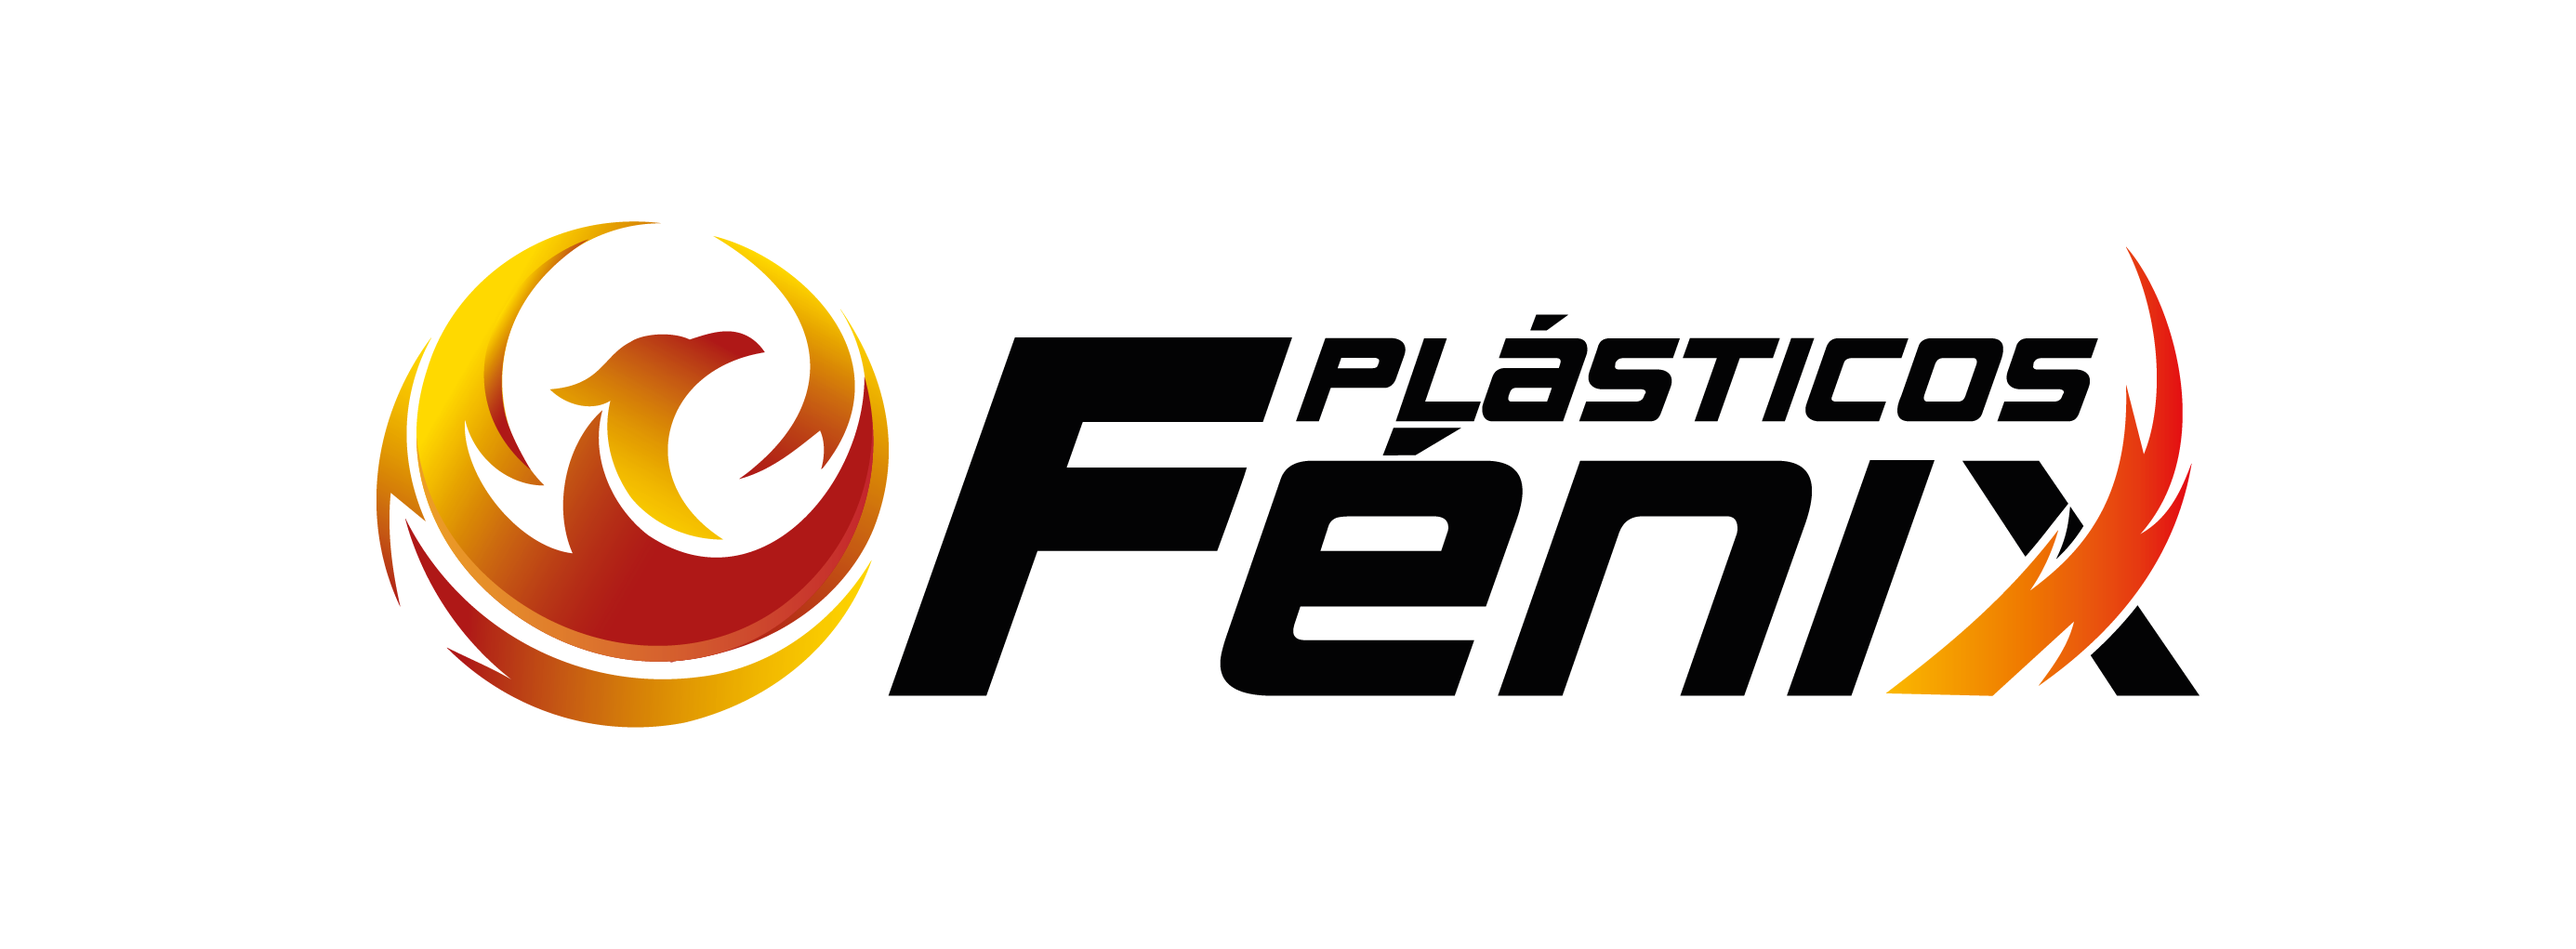
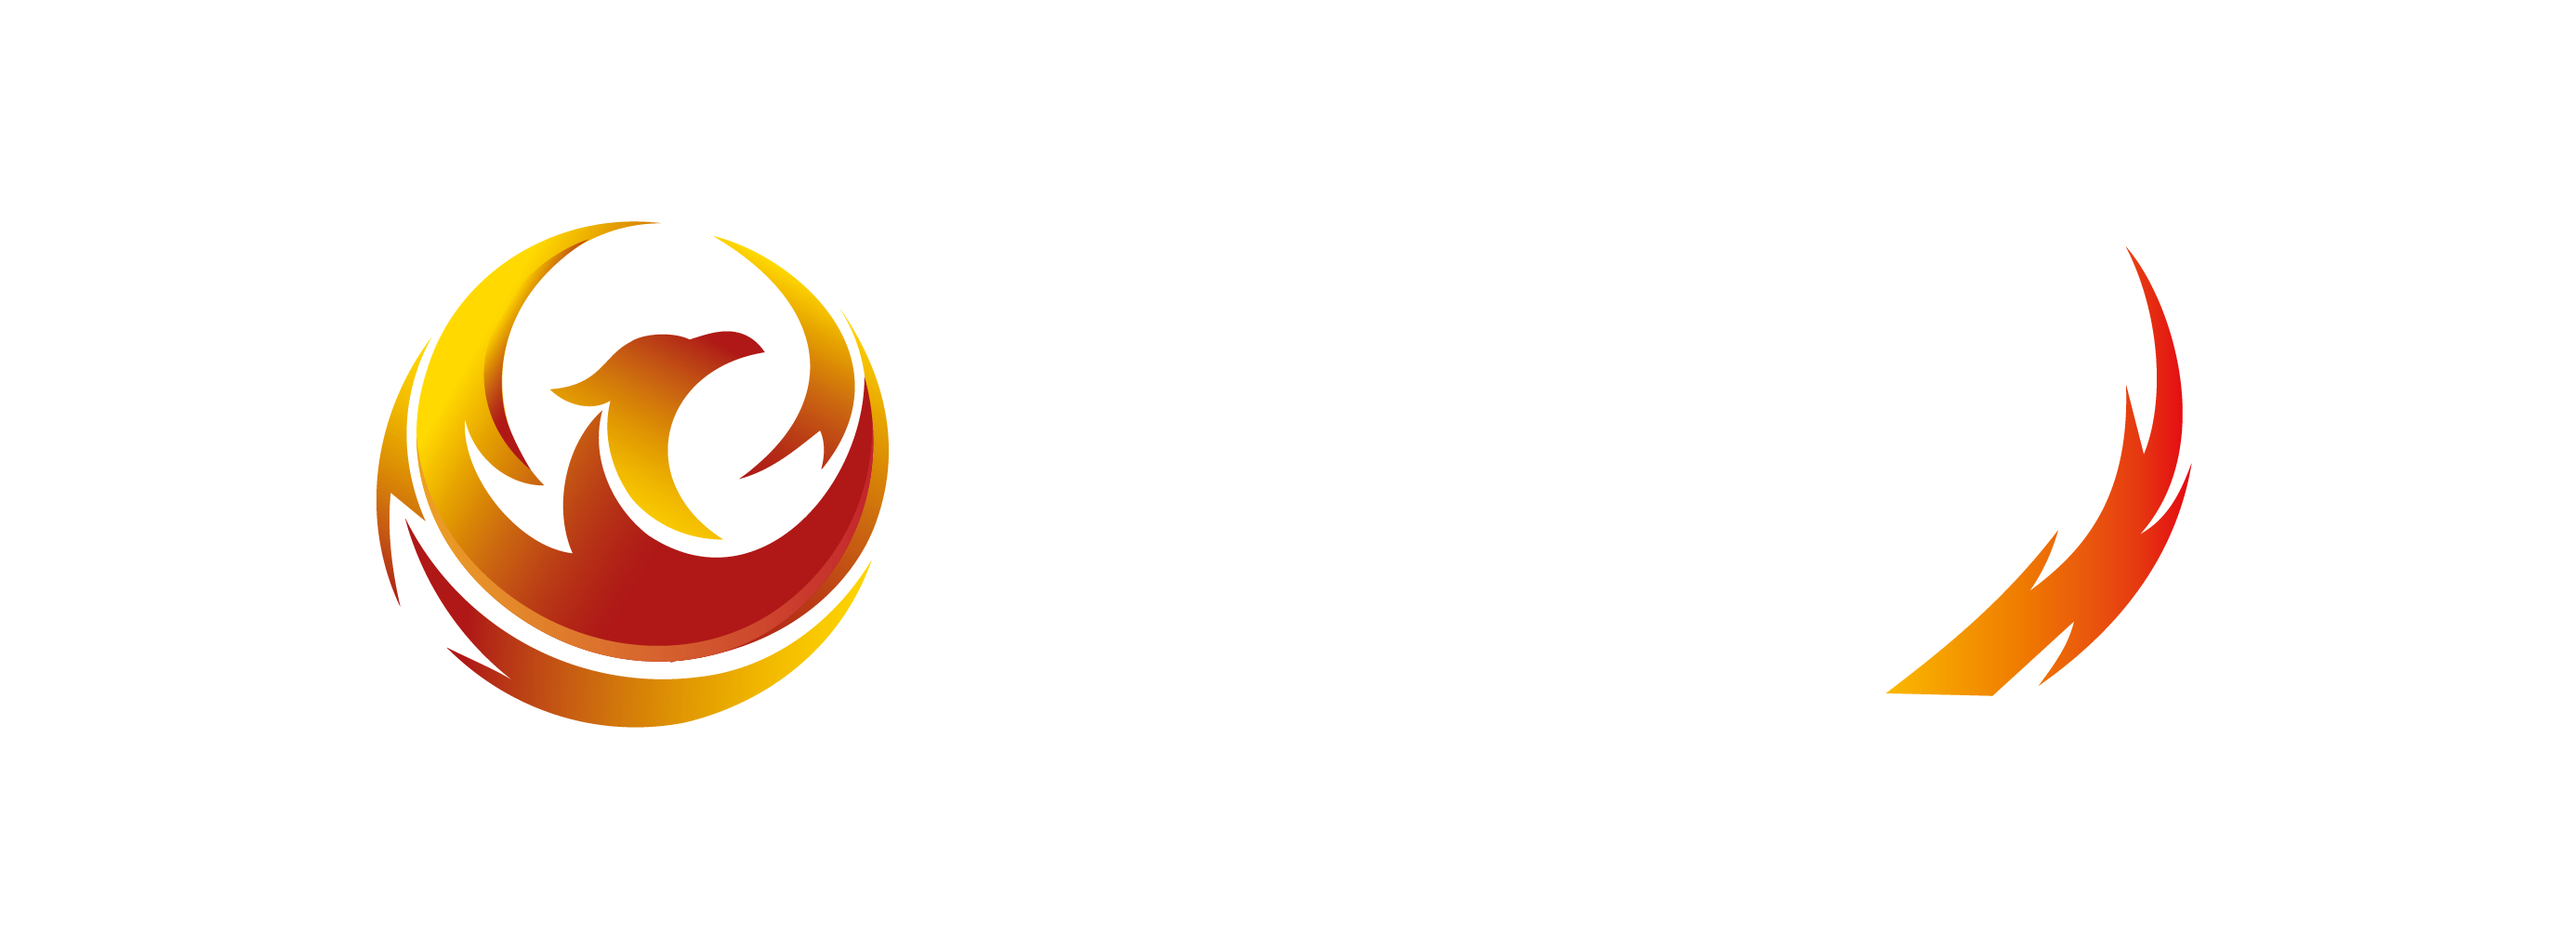
nuevos estilos y imagen de fondo

Changed region(s): [[0.3414, 0.334, 0.838, 0.7591], [0.8069, 0.6376, 0.869, 0.7287]]

diff --git a/style.css b/style.css
@@ -9,16 +9,17 @@
 
 body {
     font-family: 'Poppins', sans-serif;
-    background-color: #c9c8c8;
-    color: #333;
+   /*  background-color: #C1C1C1; */
+    color: #f1ebeb;
     padding: 20px;
     line-height: 1.6;
+    background-image: url("back.png");
 }
 
 
 
 h1, h2 {
-    color: #030304;
+    color: #f1f1f7;
     text-align: center;
     margin-bottom: 20px;
 }
@@ -48,7 +49,7 @@ textarea {
     font-size: 1rem;
     border: 1px solid #ccc;
     border-radius: 8px;
-    background-color: #f9f9f9;
+    background-color: #344250;
     margin-bottom: 20px;
     box-shadow: 2px 2px 10px rgba(0, 0, 0, 0.1);
     resize: none;
@@ -87,7 +88,7 @@ table {
 }
 
 table, th, td {
-    border: 1px solid #ddd;
+    border: 1px solid #aca4a4;
 }
 
 th, td {
@@ -98,11 +99,11 @@ th, td {
 
 thead {
     background-color: #34495e;
-    color: white;
+    color: rgb(14, 221, 83);
 }
 
 tbody tr:nth-child(even) {
-    background-color: #f9f9f9;
+    background-color: #574c5c;
 }
 
 tbody tr:hover {

diff --git a/logica.js b/logica.js
@@ -38,7 +38,7 @@ function procesarDatos() {
     let totalCanastilla = 0;
 
     // Constante para volumen de la canastilla en m³
-    const VOLUMEN_CANASTA = 2.89;
+    const VOLUMEN_CANASTA = 2.80;
 
     // Procesar cada línea del pedido
     lineas.forEach(linea => {
@@ -74,7 +74,7 @@ function procesarDatos() {
                     <td>${producto.unidad_empaque_gramos || 'N/A'}</td>
                     <td>${(pesoUnidadGramos / 1000).toFixed(4)}</td>
                     <td>${producto.empaque_canasta || 'N/A'}</td>
-                    <td>${volumenUnidad}</td>
+                    <td>${volumenUnidad.toFixed(6)}</td>
                     <td>${cantidad}</td>
                     <td>${volumenTotalProducto.toFixed(6)}</td>
                     <td>${(pesoTotalProducto / 1000).toFixed(2)}</td>

diff --git a/index.html b/index.html
@@ -13,7 +13,7 @@
     <h1> Productos FENIX</h1>
 
     <!-- Área de texto para pegar productos -->
-     <div class="input-group" style="margin-bottom: 20px; background-color: #c9c8c8" >
+     <div class="input-group" style="margin-bottom: 20px; background-image: url('back.png');" >
         <textarea id="pedido" rows="15" placeholder="Pega productos aquí (ej: PF101,12)"></textarea>
      </div>
     
@@ -85,7 +85,7 @@
 
                      
                   
-        </div>
+     
         
 
 
